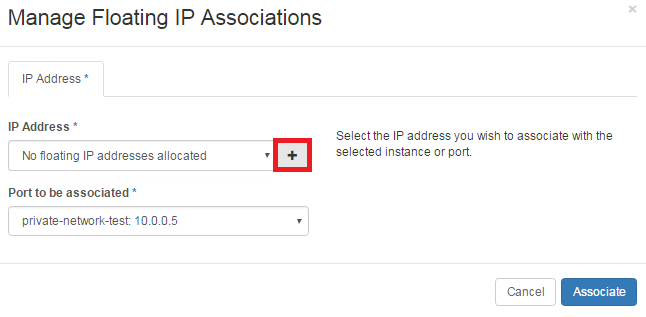
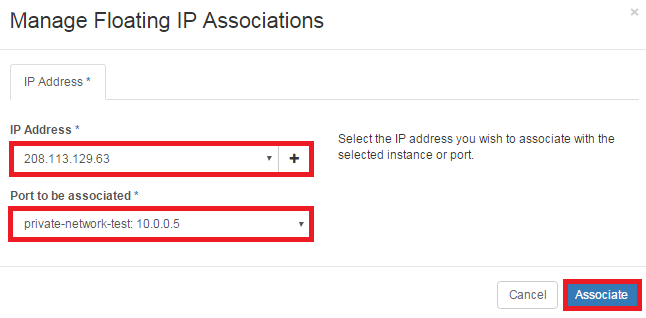
Suggested changes to the enable private networking doc, and image adjustment.

diff --git a/source/dreamcompute/gettingstarted/how-to-enable-private-networking.rst b/source/dreamcompute/gettingstarted/how-to-enable-private-networking.rst
@@ -14,11 +14,11 @@ much harder to hack.
 Enabling private networking
 ~~~~~~~~~~~~~~~~~~~~~~~~~~~
 
-US-EAST 2 has public networking available by default which means every one of
-your servers gets allocated a public IP address when it is created on that
-network.
+The DreamCompute US-East 2 cluster has public networking available by default
+which means every one of your servers gets allocated a public IP address when
+it is created on that network.
 
-In order to enable private networking on your account in US-EAST 2, you must
+In order to enable private networking on your account in US-East 2, please
 contact support and make a request to enable it. Currently, this is unavailable
 through the panel.
 
@@ -26,6 +26,251 @@ Price
 ~~~~~
 
 Private networking in US-EAST 2 costs $5 per private network.
+
+Private network options
+~~~~~~~~~~~~~~~~~~~~~~~
+
+Once support as confirmed the network quota has been adjusted, the private
+network can be added.  Please review the below options to determine settings
+for the private network.
+
+Network block
+-------------
+
+There are various private network blocks that are available for use with
+private networks, and are specified in `CIDR <https://en.wikipedia.org/wiki/Classless_Inter-Domain_Routing>`_
+format.  Common examples of this are 10.0.0.0/24 or 192.168.0.0/24, however
+there are `other networks <https://en.wikipedia.org/wiki/Private_network#Private_IPv4_address_spaces>`_
+to choose from as well.  In the example below, we will use 10.0.0.0/24.
+
+DHCP
+----
+
+When a subnet is defined, DHCP can be set enabled or disabled, and can be
+changed later if desired.  When DHCP is enable, newly created instances will
+run cloud-init at start and detect it, and therefore determine it isn't
+necessary to hard-code network settings into the operating system.  If it is
+disabled, then these settings will be hard-coded.  Having DHCP enabled can help
+with creating snapshots and new instances from those snapshots, as the
+snapshots won't have hard-coded network configs in them.  However, older
+versions of cloud-init will fail to boot entirely when DHCP is enabled.
+
+As of October 2016, only Centos 6, and all Ubuntu versions have a version of
+cloud-init that supports DHCP.  If you plan to use a different operating
+system, please consider disabling DHCP.
+
+Adding the private network
+~~~~~~~~~~~~~~~~~~~~~~~~~~
+
+Three different ways are described below to accomplish the same
+goal, depending on if the dashboard or command line is preferred.
+
+* `DreamCompute dashboard`_
+* `Command line with nova and neutron`_
+
+DreamCompute dashboard
+----------------------
+
+1. Begin creating a network:
+
+    .. figure:: images/how-to-enable-private-networking/network-01.png
+
+        Launch the DreamCompute dashboard, and navigate to the Network
+        -> Networks menu.  Click on the "+ Create Network" button on the
+        top right.
+
+2. Enter network information:
+
+    .. figure:: images/how-to-enable-private-networking/network-02.png
+
+        A new window appears.  Enter a name for the network such as
+        "private-network".  Then, click the "Next" button.
+
+3. Enter subnet information:
+
+    .. figure:: images/how-to-enable-private-networking/network-03.png
+
+        On the Subnet tab, enter the above determined CIDR for the
+        private network into the "Network Address" field.  An optional
+        Subnet name can be specified if desired.  Then, click the "Next"
+        button.
+
+4. Enter subnet details:
+
+    .. figure:: images/how-to-enable-private-networking/network-04.png
+
+        On the Subnet Details tab, check or uncheck the "Enable DHCP"
+        checkbox depending on the decision made in the `DHCP`_
+        section above.  In the "DNS Name Servers" field, enter the
+        values 8.8.8.8 and 8.8.4.4 on their own lines.  Finally, click the
+        "Create" button.
+
+5. Begin creating a router:
+
+    .. figure:: images/how-to-enable-private-networking/network-05.png
+
+        Navigate to the Network -> Routers menu.  Click on the "+ Create
+        Router" button on the top right.
+
+6. Enter router information:
+
+    .. figure:: images/how-to-enable-private-networking/network-06.png
+
+        A new window appears.  Enter a name for the router such as
+        "private-router", and select "public" from the "External Network"
+        drop-down.  Finally, click the "Create Router" button.
+
+7. Begin adding a router interface:
+
+    .. figure:: images/how-to-enable-private-networking/network-07.png
+
+        Once the router is displayed, click on the routers name to navigate
+        to the router details page.  Click on the "Interfaces" tab that is
+        displayed on the top left.
+
+8. Add an interface:
+
+    .. figure:: images/how-to-enable-private-networking/network-08.png
+
+        Click on the "+ Add Interface" button on the top right.
+
+9. Enter interface information:
+
+    .. figure:: images/how-to-enable-private-networking/network-09.png
+
+        In the "Subnet" drop-down, select the private network created in
+        steps #1-4 above.  Finally, click the "Add Interface" button.
+
+This completes the process of adding a private network to the account.  To
+select the private network and add a floating IP address, the additional steps
+are below.
+
+1. Begin adding an instance:
+
+    .. figure:: images/how-to-enable-private-networking/network-10.png
+
+        Navigate to the Compute -> Instances menu.  Click on the "Launch
+        Instance" button on the top right.  Complete the "Details", "Access
+        & Security" and "Post-Creation" tabs as normal.  In the "Networking"
+        tab, click the "+" button to add the private network to this instance.
+        Finally, click the "Launch" button to launch the instance.
+
+2. Begin floating IP association:
+
+    .. figure:: images/how-to-enable-private-networking/network-11.png
+
+        In the right drop-down menu beside the instance, click the down arrow
+        to expand it and select "Associate Floating IP".
+
+3. Provision a floating IP address if needed:
+
+    .. figure:: images/how-to-enable-private-networking/network-12.png
+
+        If a floating IP has not yet been provisioned, click the "+" button
+        to do so.  The provision window has only one "Pool" available named
+        "Public" to select, and an "Allocate IP" button to complete the
+        process.  Select an available floating IP from the "IP Address"
+        drop-down, and the private IP address of the above instance in the
+        "Port to be associated" drop-down.  Finally, click the "Associate"
+        button.
+
+4. Verify floating IP assignment:
+
+    .. figure:: images/how-to-enable-private-networking/network-13.png
+
+        The floating IP address assigned will appear on the Compute ->
+        Instances page in the "IP Address" column.
+
+Command line with nova and neutron
+----------------------------------
+
+1. Create a network:
+
+    .. code:: console
+
+        $ neutron net-create private-network
+
+This command creates a new empty network which can accept a subnet
+later.  In this example the name "private-network" is given.
+
+2. Create a subnet:
+
+    .. code:: console
+
+        $ neutron subnet-create private-network 10.0.0.0/24 --name private-network \
+          --dns-nameserver 8.8.8.8 --dns-nameserver 8.8.4.4 --disable-dhcp
+
+This command creates a new subnet on top of the network created above.
+Depending on decisions made about `DHCP`_ and the
+`network block`_, a different CIDR and/or the flag
+--enable-dhcp can be specified.  In this example the subnet is named
+"private-network" the same as the network, and google DNS servers
+specified.
+
+3. Create a router:
+
+    .. code:: console
+
+        $ neutron router-create private-router
+
+This command creates a new router with default configuration.  In this
+example the name "private-router" is given.
+
+4. Create a router interface:
+
+    .. code:: console
+
+        $ neutron router-interface-add private-router private-network
+
+This command adds an interface to the router to the private network.
+
+5. Set the router gateway:
+
+    .. code:: console
+
+        $ neutron router-gateway-set private-router public
+
+This command sets the router gateway to the public network, to allow
+it access to the internet.
+
+This completes the process of adding a private network to the account.  To
+select the private network and add a floating IP address, some example commands
+are below.
+
+1. Determine flavor, security group, image, keypair and network ID:
+
+    .. code:: console
+
+        $ nova flavor-list
+        $ nova secgroup-list
+        $ nova image-list
+        $ nova keypair-list
+        $ neutron net-list
+
+The above commands will output the available flavors, security groups,
+images, keypairs and the networks available.  Select the necessary
+options for creating the instance.  For the network, the long ID is
+needed in place of the given name.
+
+2. Create an instance:
+
+    .. code:: console
+
+        $ nova boot --flavor gp1.semisonic --security-group default --image Ubuntu-16.04 \
+          --nic net-id=LONG-NETWORK-UUID-HERE --key-name KEYNAME INSTANCENAME
+
+The above command creates a semisonic size instance, using the default
+security group and the Ubuntu 16.04 operating system image.  The
+remaining values will vary per tenant, and will need to be specified
+instead.  The LONG-NETWORK-UUID-HERE is the ID given from
+"neutron net-list", the KEYNAME from "nova keypair-list" and the
+instance name any name desired for the instance.
+
+.. _`DHCP`: #dhcp
+.. _`network block`: #network-block
+.. _`DreamCompute dashboard`: #dreamcompute-dashboard
+.. _`Command line with nova and neutron`: #command-line-with-nova-and-neutron
+
 
 .. meta::
     :labels: network
